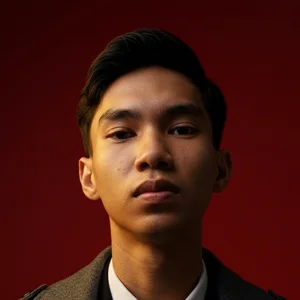
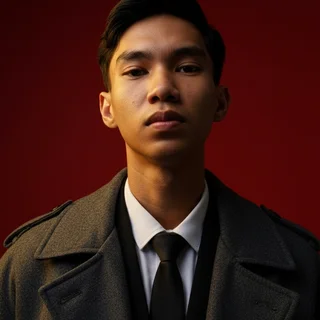
Halaman link: foto kartu sampai jas dan dasi, sedikit lebih besar
Claude-Session: https://claude.ai/code/session_012CAGJkYUHsEMWwfJLfAKuZ

diff --git a/linkbio/public/index.html b/linkbio/public/index.html
@@ -60,7 +60,7 @@ main{position:relative;z-index:1;max-width:440px;margin:0 auto;padding:max(30px,
 .brand img{width:22px;height:22px;border-radius:6px}
 .chip{margin-left:auto;width:34px;height:26px;border-radius:6px;background:linear-gradient(135deg,#f3d27a,#b8862f 55%,#f6e3a4);box-shadow:inset 0 0 0 1px rgba(0,0,0,.25)}
 .who{display:flex;align-items:center;gap:13px;margin-top:auto}
-.who img{width:62px;height:62px;border-radius:18px;object-fit:cover;box-shadow:0 0 0 2px rgba(255,255,255,.22)}
+.who img{width:76px;height:76px;border-radius:20px;object-fit:cover;box-shadow:0 0 0 2px rgba(255,255,255,.22)}
 .who h1{margin:0;font-family:Unbounded,Manrope,sans-serif;font-weight:700;font-size:clamp(17px,5.2vw,21px);line-height:1.15;letter-spacing:-.01em}
 .who p{margin:3px 0 0;font-size:12.5px;color:var(--kmut)}
 .chart{position:absolute;left:0;top:30%;width:100%;height:32%;pointer-events:none;overflow:visible}
@@ -110,7 +110,7 @@ a:focus-visible{outline:2px solid var(--bl);outline-offset:3px}
       <div class="ci">
         <div class="row"><span class="row brand"><img src="img/icon-192.png" alt="">ChartFlow</span><span class="chip" aria-hidden="true"></span></div>
         <div class="who">
-          <img src="img/foto-kartu.webp" alt="Foto Sultan Amra" width="62" height="62">
+          <img src="img/foto-kartu.webp?v=2" alt="Foto Sultan Amra" width="76" height="76">
           <div><h1>Sultan Amra, S.IP.</h1><p>Pembuat ChartFlow</p></div>
         </div>
         <div class="stats"><span><b>3</b> pasar</span><span><b>7</b> metode</span><span>diuji <b>10 th</b></span></div>
